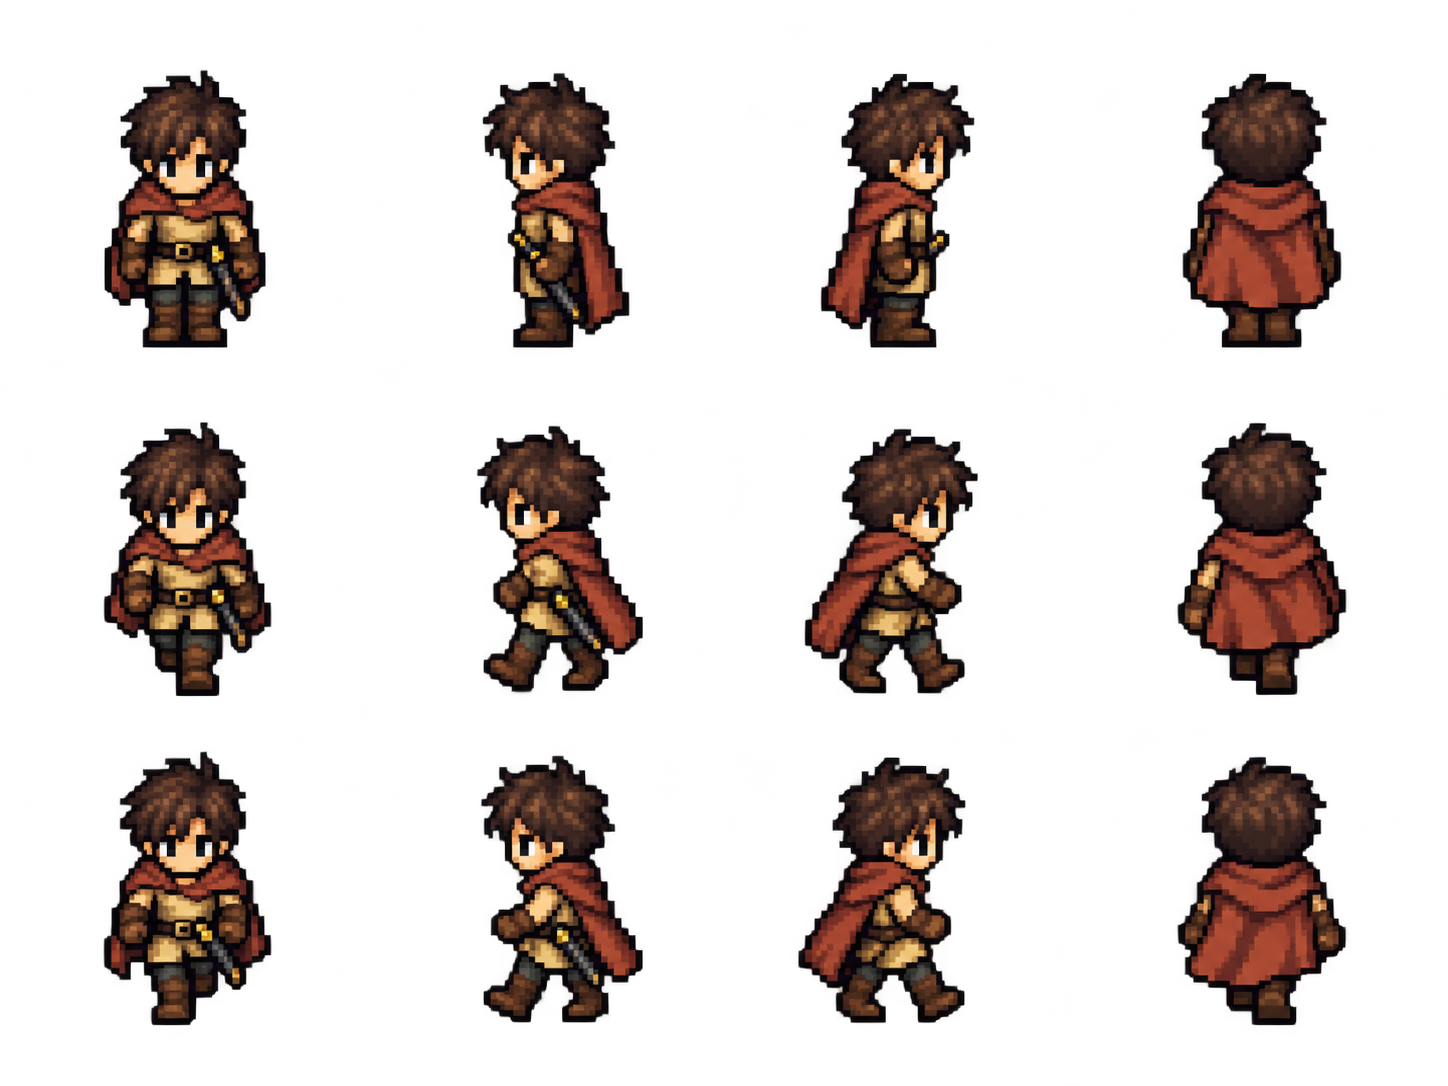
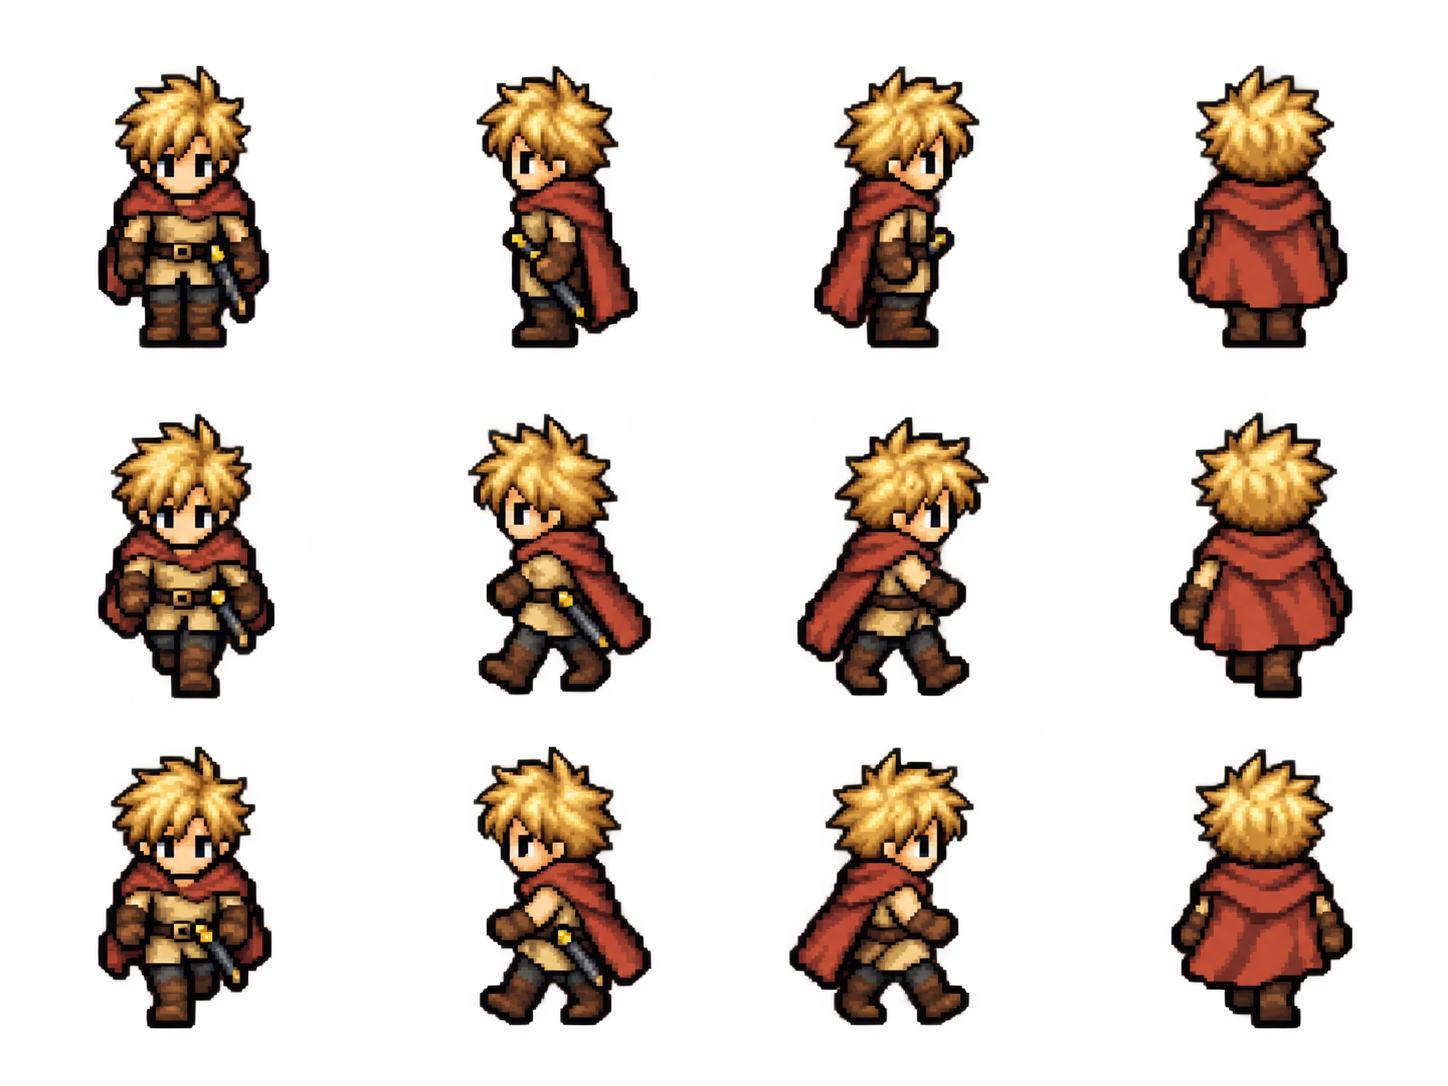
art: muda Aren para cabelo loiro pontiagudo

diff --git a/Assets/Scripts/Prototype/ObliqueScenery.cs b/Assets/Scripts/Prototype/ObliqueScenery.cs
@@ -451,13 +451,17 @@ namespace DragonQuest.Prototype
             return figure.transform;
         }
 
-        public static ObliqueMeshData PersonBodyData(string hex, bool armed)
+        public static ObliqueMeshData PersonBodyData(string hex, bool armed, bool spikyBlond = false)
         {
             var body=new ObliqueMeshData(); Color cloth=ObliqueMeshData.Hex(hex), skin=ObliqueMeshData.Hex("D4B294");
             body.Box(0,0,0.38f,0.26f,0.5f,1.02f,cloth);
             body.Box(0,0,0.2f,0.2f,1.02f,1.12f,skin);
             body.Box(0,-0.015f,0.29f,0.27f,1.1f,1.4f,skin);
-            body.Box(0,0.015f,0.32f,0.29f,1.34f,1.45f,ObliqueMeshData.Hex("4C4544"));
+            Color hair = ObliqueMeshData.Hex(spikyBlond ? "D9B35D" : "4C4544");
+            body.Box(0,0.015f,0.32f,0.29f,1.34f,1.45f,hair);
+            if (spikyBlond)
+                foreach (float x in new[] {-0.12f, -0.04f, 0.04f, 0.12f})
+                    body.Cone(x, 0.015f, 0.075f, 1.41f, 1.58f + (x < 0 ? 0.04f : 0), hair, 4);
             foreach(float x in new[]{-0.25f,0.25f}) body.Box(x,0,0.12f,0.19f,0.56f,0.98f,cloth);
             body.Box(0,0.16f,0.4f,0.05f,0.38f,1.02f,ObliqueMeshData.Hex(armed?"835A4A":"556577"));
             body.Box(0,-0.145f,0.39f,0.025f,0.54f,0.61f,ObliqueMeshData.Hex("B7A374"));
@@ -498,9 +502,9 @@ namespace DragonQuest.Prototype
             return visual;
         }
         public Transform Spirit(Transform parent) => Show("Espirito maligno",SpiritData(),parent);
-        private static ObliqueMeshData StandingPerson(string hex)
+        private static ObliqueMeshData StandingPerson(string hex, bool spikyBlond = false)
         {
-            var mesh=PersonBodyData(hex,true);Color cloth=ObliqueMeshData.Hex(hex);
+            var mesh=PersonBodyData(hex,true,spikyBlond);Color cloth=ObliqueMeshData.Hex(hex);
             mesh.Append(LegData(-0.12f,cloth),new Vector3(0,0,-0.5f));mesh.Append(LegData(0.12f,cloth),new Vector3(0,0,-0.5f));
             return mesh;
         }
@@ -555,7 +559,7 @@ namespace DragonQuest.Prototype
                 mesh.Cone(0.5f,2.2f,0.2f,0,0.12f,ObliqueMeshData.Hex("D8B968"),7,0.2f);
             }
             foreach(var pair in new[]{("B4A078",0f),("DADECB",-2.2f),("608DA1",2.2f)})
-                mesh.Append(StandingPerson(pair.Item1),new Vector3(pair.Item2,-1.5f,0));
+                mesh.Append(StandingPerson(pair.Item1, pair.Item2 == 0),new Vector3(pair.Item2,-1.5f,0));
             if(ending==GameEnding.HeroPossessed)
             {
                 mesh.Append(SpiritData(),new Vector3(0,-1.1f,-0.65f));

diff --git a/Docs/PIXEL_ART_PROMPTS.md b/Docs/PIXEL_ART_PROMPTS.md
@@ -1,5 +1,11 @@
 # Prompts — pixel art, parte 10A
 
+## Aren — revisão do cabelo, 12 de outubro de 2026
+
+Edição pela ferramenta integrada `image_gen`, usando `Assets/Resources/PixelArt/ArenWalk.png` como alvo. A versão atual do herói tem cabelo loiro pontiagudo nas doze poses, com a grade e a transparência preservadas. O prompt de criação original abaixo registra a versão anterior.
+
+Use case: precise-object-edit. Edit target: the supplied ORIGINAL ArenWalk sprite sheet used in a Unity RPG. Change ONLY Aren's hair, in ALL TWELVE sprites, from brown to clearly GOLDEN BLOND with visibly SPIKY, POINTED, angular tufts pointing upward and outward. Use light golden highlights, warm blond midtones and darker golden-brown shadows; keep a dark selective pixel outline so the blond hair reads against the face. This is the SAME original character, not a recreation of a franchise hero. Preserve the existing pixel art style, exact face, eyes, tan/ochre outfit, rust cloak, sword, boots, poses, proportions and positions. Preserve the exact 1448x1086 canvas and perfectly uniform four-column by three-row sprite grid. Columns remain DOWN, LEFT, RIGHT, UP; rows remain idle, left-step, right-step. Hair must be blond and spiky in side and BACK views too. Keep complete heads and bodies inside their own cells with transparent padding; spikes must never touch or cross cell boundaries. Preserve the original genuine transparent alpha background. No background, shadows, grid lines, labels, text, logos, watermark, blur or smoothing. Do not move or resize the bodies or change any other item of clothing.
+
 Gerados com a ferramenta integrada `image_gen`, em 12 de outubro de 2026. Imagens originais para esta demo; FF6 original foi a referência visual, sem importação de assets do jogo. Bram e moradores tiveram uma revisão de espaçamento antes da integração. Os PNGs originais foram preservados; recortes de sprites são feitos em memória pela Unity.
 
 ## aren

diff --git a/Docs/ASSETS.md b/Docs/ASSETS.md
@@ -48,3 +48,5 @@ Criados com a ferramenta integrada `image_gen`: `Assets/Resources/PixelArt/ArenW
 Bram e moradores receberam uma revisão de layout pela mesma ferramenta para manter cada corpo dentro de sua célula. Rascunhos e prévias técnicas ficam fora do Git. Os sprites atuais têm trajes fixos; bosses, invocações, efeitos e cenas finais ainda usam elementos anteriores.
 
 Importadores e shaders foram configurados no projeto para preservar pixels e alpha. `PixelSpriteLayout`, `PixelSpriteLibrary`, `PixelCharacter` e `PixelSurface` foram criados em C# para esta integração. `Inspect-PixelArt.py` apenas lê/valida imagens e exporta metadados para análise; nenhuma imagem de terceiros foi usada.
+
+Revisão do Aren, em 12 de outubro de 2026: `ArenWalk.png` foi editado com a ferramenta integrada `image_gen` para cabelo loiro pontiagudo em todas as doze poses. Roupa, quatro direções, caminhada e transparência foram conservadas. O importador/GUID continua o mesmo; 186 verificações dos atlas/importadores passaram. O prompt de edição foi adicionado a `PIXEL_ART_PROMPTS.md`. A figura geométrica provisória do Aren nos finais também recebeu cabelo dourado com pontas, em `ObliqueScenery`.

diff --git a/Docs/PARTE_10A.md b/Docs/PARTE_10A.md
@@ -6,7 +6,7 @@ A referência artística desta etapa é o Final Fantasy VI original. A apresenta
 
 | Arquivo em Assets/Resources/PixelArt | Uso |
 | --- | --- |
-| ArenWalk.png | Aren, quatro direções e poses de caminhada; exploração e batalha |
+| ArenWalk.png | Aren com cabelo loiro pontiagudo, quatro direções e poses de caminhada; exploração e batalha |
 | LiaWalk.png | Lia, quatro direções e poses de caminhada; batalha |
 | BramWalk.png | Bram, quatro direções e poses de caminhada; batalha |
 | NpcRoster.png | Doze sprites: moradores, comerciantes, hospedeira, lenhador, viajante, guarda e rei |
